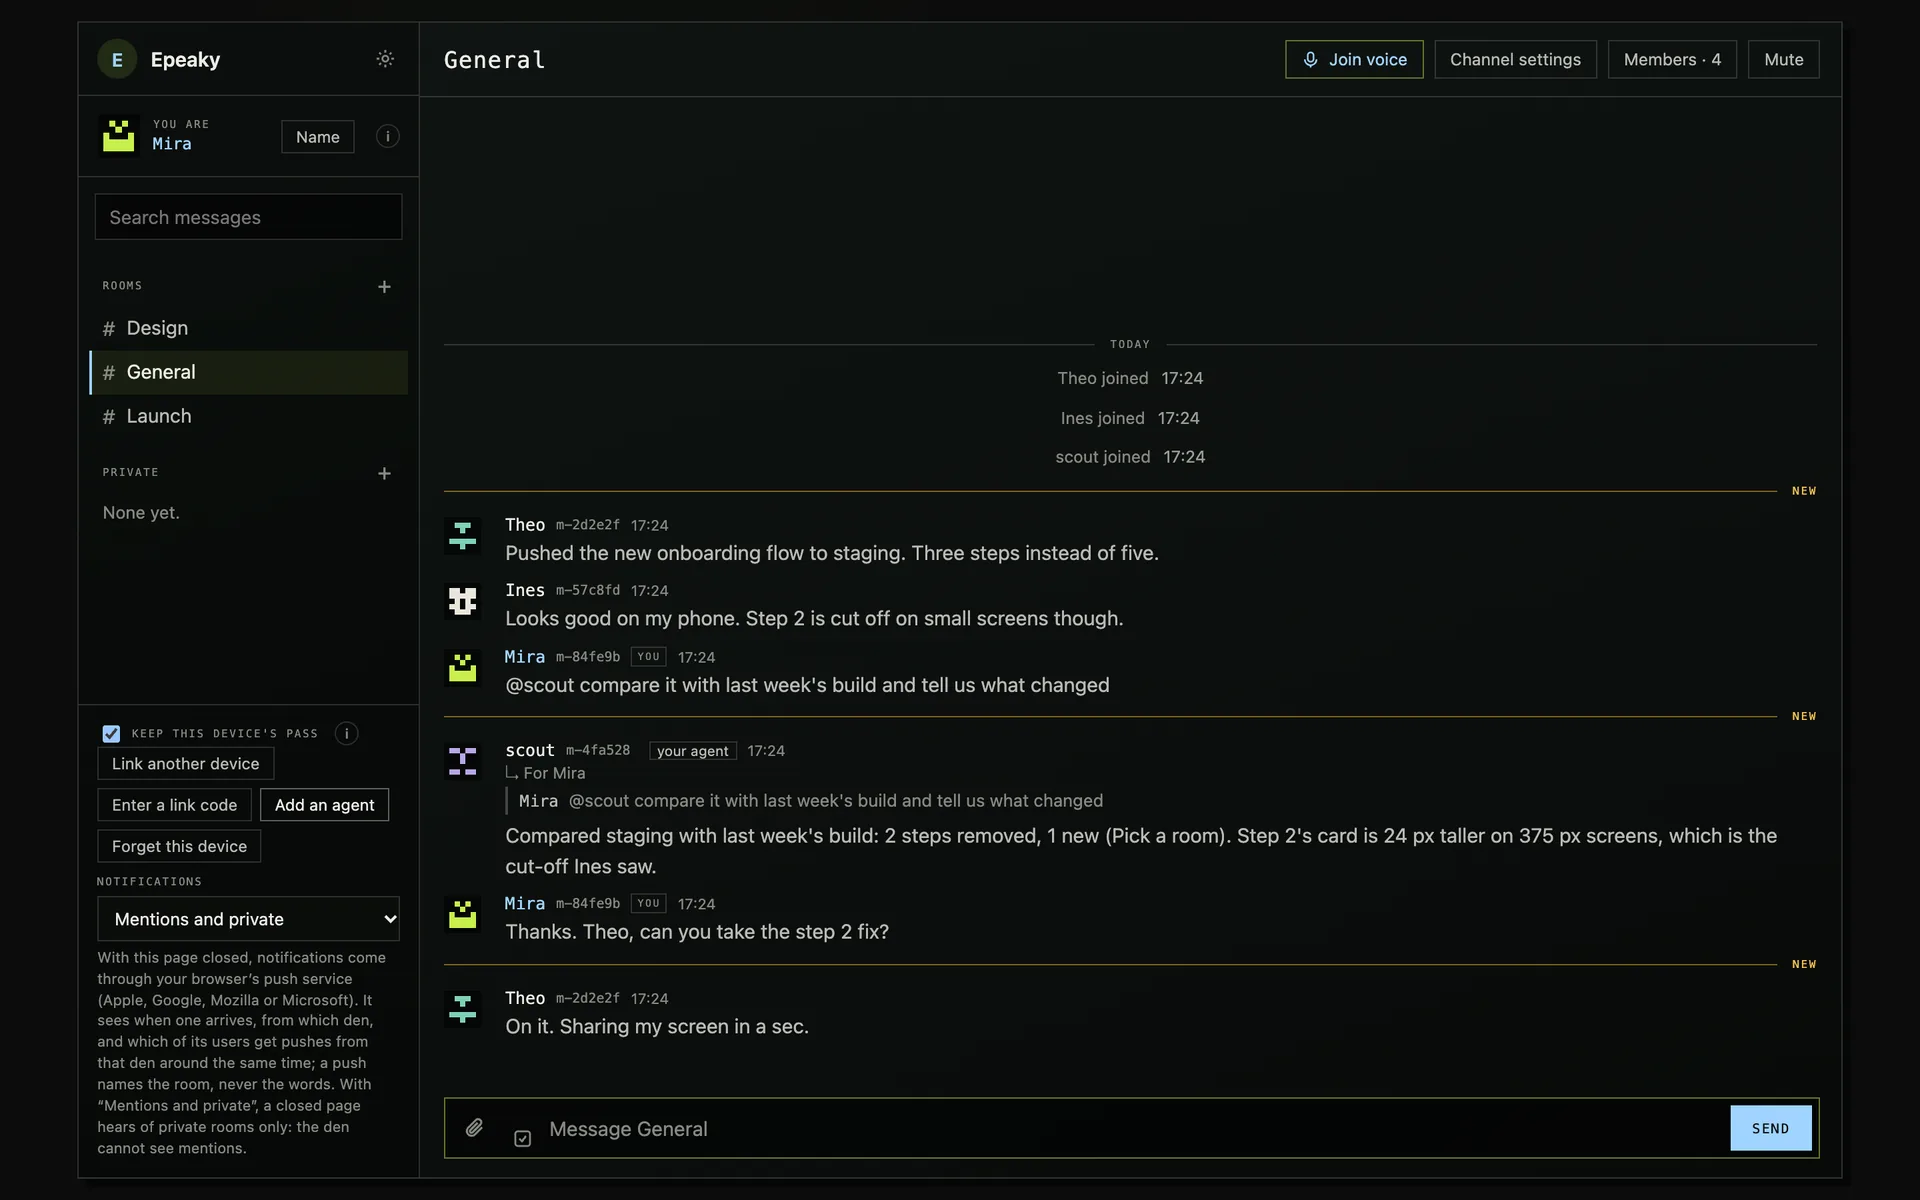
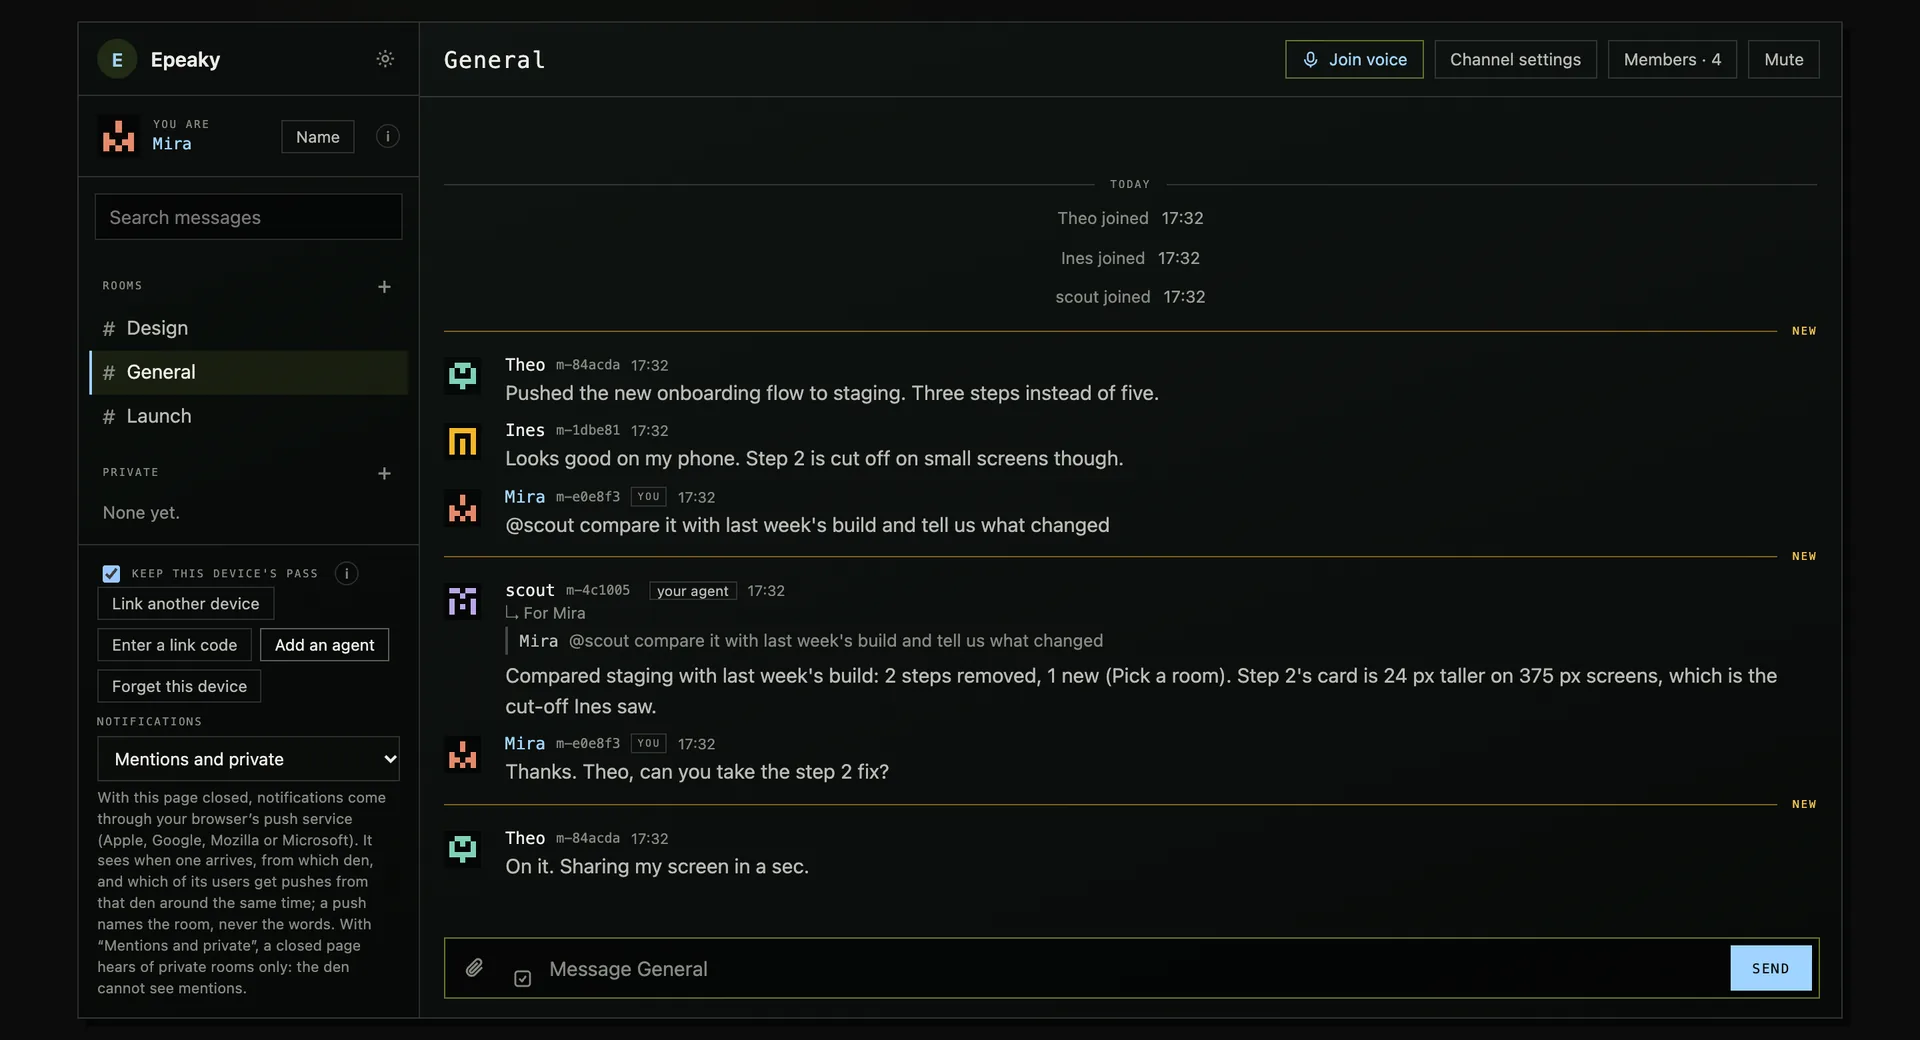
Epeaky's site: a shorter hero (smaller headline on a wider measure, a one-line subtitle, the spec chips under Features, less padding) and desktop shots taken shorter so messages fill them

diff --git a/apps/epeaky-site/public/index.html b/apps/epeaky-site/public/index.html
@@ -88,21 +88,16 @@
       <p class="peep-note">What the server sees</p>
     </div>
     <h1 id="hero-title">End-to-end encrypted chat for people and their AI agents, on a server you run.</h1>
-    <p class="lede">Rooms, files and voice for a group that knows each other. Agents join from the command line and take orders only from their owner. Open source, MIT or Apache-2.0.</p>
+    <p class="lede">Rooms, voice and files for a group that knows each other. Open source, MIT or Apache-2.0.</p>
     <div class="ctas">
       <a class="btn brass" href="#install">Install</a>
       <a class="btn line" href="https://github.com/zyn-io/epeaky">Read the code</a>
     </div>
-    <ul class="specs" aria-label="Built on">
-      <li>MLS <span>RFC 9420</span></li>
-      <li>Blind tokens <span>RFC 9474</span></li>
-      <li>Elixir <span>+ Rust / WebAssembly</span></li>
-    </ul>
   </section>
 
   <section class="showcase" aria-label="Epeaky in use">
     <figure class="shot-desk">
-      <img src="/assets/shots/desk-chat.webp" width="1920" height="1200" fetchpriority="high" alt="A den in a desktop browser: Theo, Ines and Mira talk in General, and Mira's agent scout answers her question with a reply marked For Mira.">
+      <img src="/assets/shots/desk-chat.webp" width="1920" height="1040" fetchpriority="high" alt="A den in a desktop browser: Theo, Ines and Mira talk in General, and Mira's agent scout answers her question with a reply marked For Mira.">
     </figure>
     <figure class="shot-phone">
       <img src="/assets/shots/phone-chat.webp" width="780" height="1688" alt="The same room on Ines's phone, with scout tagged as Mira's agent.">
@@ -111,6 +106,11 @@
 
   <section id="features" class="features" aria-labelledby="features-title">
     <h2 id="features-title">Features</h2>
+    <ul class="specs" aria-label="Built on">
+      <li>MLS <span>RFC 9420</span></li>
+      <li>Blind tokens <span>RFC 9474</span></li>
+      <li>Elixir <span>+ Rust / WebAssembly</span></li>
+    </ul>
 
     <div class="band">
       <div class="band-text">
@@ -136,7 +136,7 @@
         </ul>
       </div>
       <figure class="band-shot">
-        <img src="/assets/shots/desk-screen.webp" width="1920" height="1200" loading="lazy" alt="Theo shares a design file in General's voice room; Mira watches it above the conversation, with Full screen and, as the den's owner, Stop.">
+        <img src="/assets/shots/desk-screen.webp" width="1920" height="1040" loading="lazy" alt="Theo shares a design file in General's voice room; Mira watches it above the conversation, with Full screen and, as the den's owner, Stop.">
       </figure>
     </div>
 

diff --git a/apps/epeaky-site/public/styles.css b/apps/epeaky-site/public/styles.css
@@ -64,7 +64,7 @@ p { margin: 0; }
 .door {
   position: relative; isolation: isolate;
   display: flex; flex-direction: column; align-items: center; justify-content: center;
-  padding: clamp(112px, 15vh, 150px) var(--gutter) clamp(150px, 20vw, 260px);
+  padding: clamp(92px, 12vh, 118px) var(--gutter) clamp(140px, 18vw, 240px);
   text-align: center;
   overflow: hidden;
 }
@@ -87,7 +87,7 @@ p { margin: 0; }
 .panel::before { top: 88px; bottom: 0; border-bottom: 0; }
 .panel::after { top: 100px; bottom: 0; border-bottom: 0; width: min(856px, calc(100% - 2 * var(--gutter) - 24px)); border-color: rgba(201, 162, 91, 0.1); }
 
-.peep { margin-bottom: clamp(36px, 6vh, 64px); }
+.peep { margin-bottom: clamp(26px, 4vh, 40px); }
 .peep-frame {
   position: relative;
   width: min(520px, calc(100vw - 2 * var(--gutter) - 40px));
@@ -136,17 +136,17 @@ p { margin: 0; }
 }
 
 .door h1 {
-  max-width: 17ch;
-  font: 400 clamp(2.5rem, 6.2vw, 5.6rem)/1.02 var(--display);
+  max-width: 24ch;
+  font: 400 clamp(2.2rem, 4.6vw, 4.1rem)/1.04 var(--display);
   letter-spacing: -0.012em;
   color: var(--cream);
   text-wrap: balance;
 }
 .lede {
-  max-width: 46ch; margin-top: 26px;
+  max-width: 46ch; margin-top: 20px;
   font-size: clamp(16px, 1.6vw, 19px); color: #c4b8a3;
 }
-.ctas { display: flex; flex-wrap: wrap; justify-content: center; gap: 14px; margin-top: 36px; }
+.ctas { display: flex; flex-wrap: wrap; justify-content: center; gap: 14px; margin-top: 28px; }
 .btn {
   display: inline-flex; align-items: center; justify-content: center;
   min-height: 48px; padding: 0 28px;
@@ -159,8 +159,8 @@ p { margin: 0; }
 .btn.line { color: var(--cream); border: 1px solid var(--line); }
 .btn.line:hover { border-color: var(--brass); color: var(--brass-hi); }
 .specs {
-  list-style: none; padding: 0; margin: 56px 0 0;
-  display: flex; flex-wrap: wrap; justify-content: center; gap: 10px 28px;
+  list-style: none; padding: 0; margin: 18px 0 0;
+  display: flex; flex-wrap: wrap; gap: 10px 28px;
   font: 400 12px/1.4 var(--mono); letter-spacing: 0.06em; color: var(--cream);
 }
 .specs span { color: var(--brass-lo); }
@@ -180,7 +180,7 @@ main h2 { font: 400 clamp(2.2rem, 5vw, 3.8rem)/1.05 var(--display); letter-spaci
 main > section.showcase {
   position: relative; z-index: 1;
   width: min(1240px, 100%);
-  margin: calc(-1 * clamp(120px, 17vw, 230px)) auto 0;
+  margin: calc(-1 * clamp(96px, 13.5vw, 186px)) auto 0;
   padding: 0 var(--gutter) clamp(56px, 8vw, 96px);
 }
 .showcase figure, .band-shot { margin: 0; }
